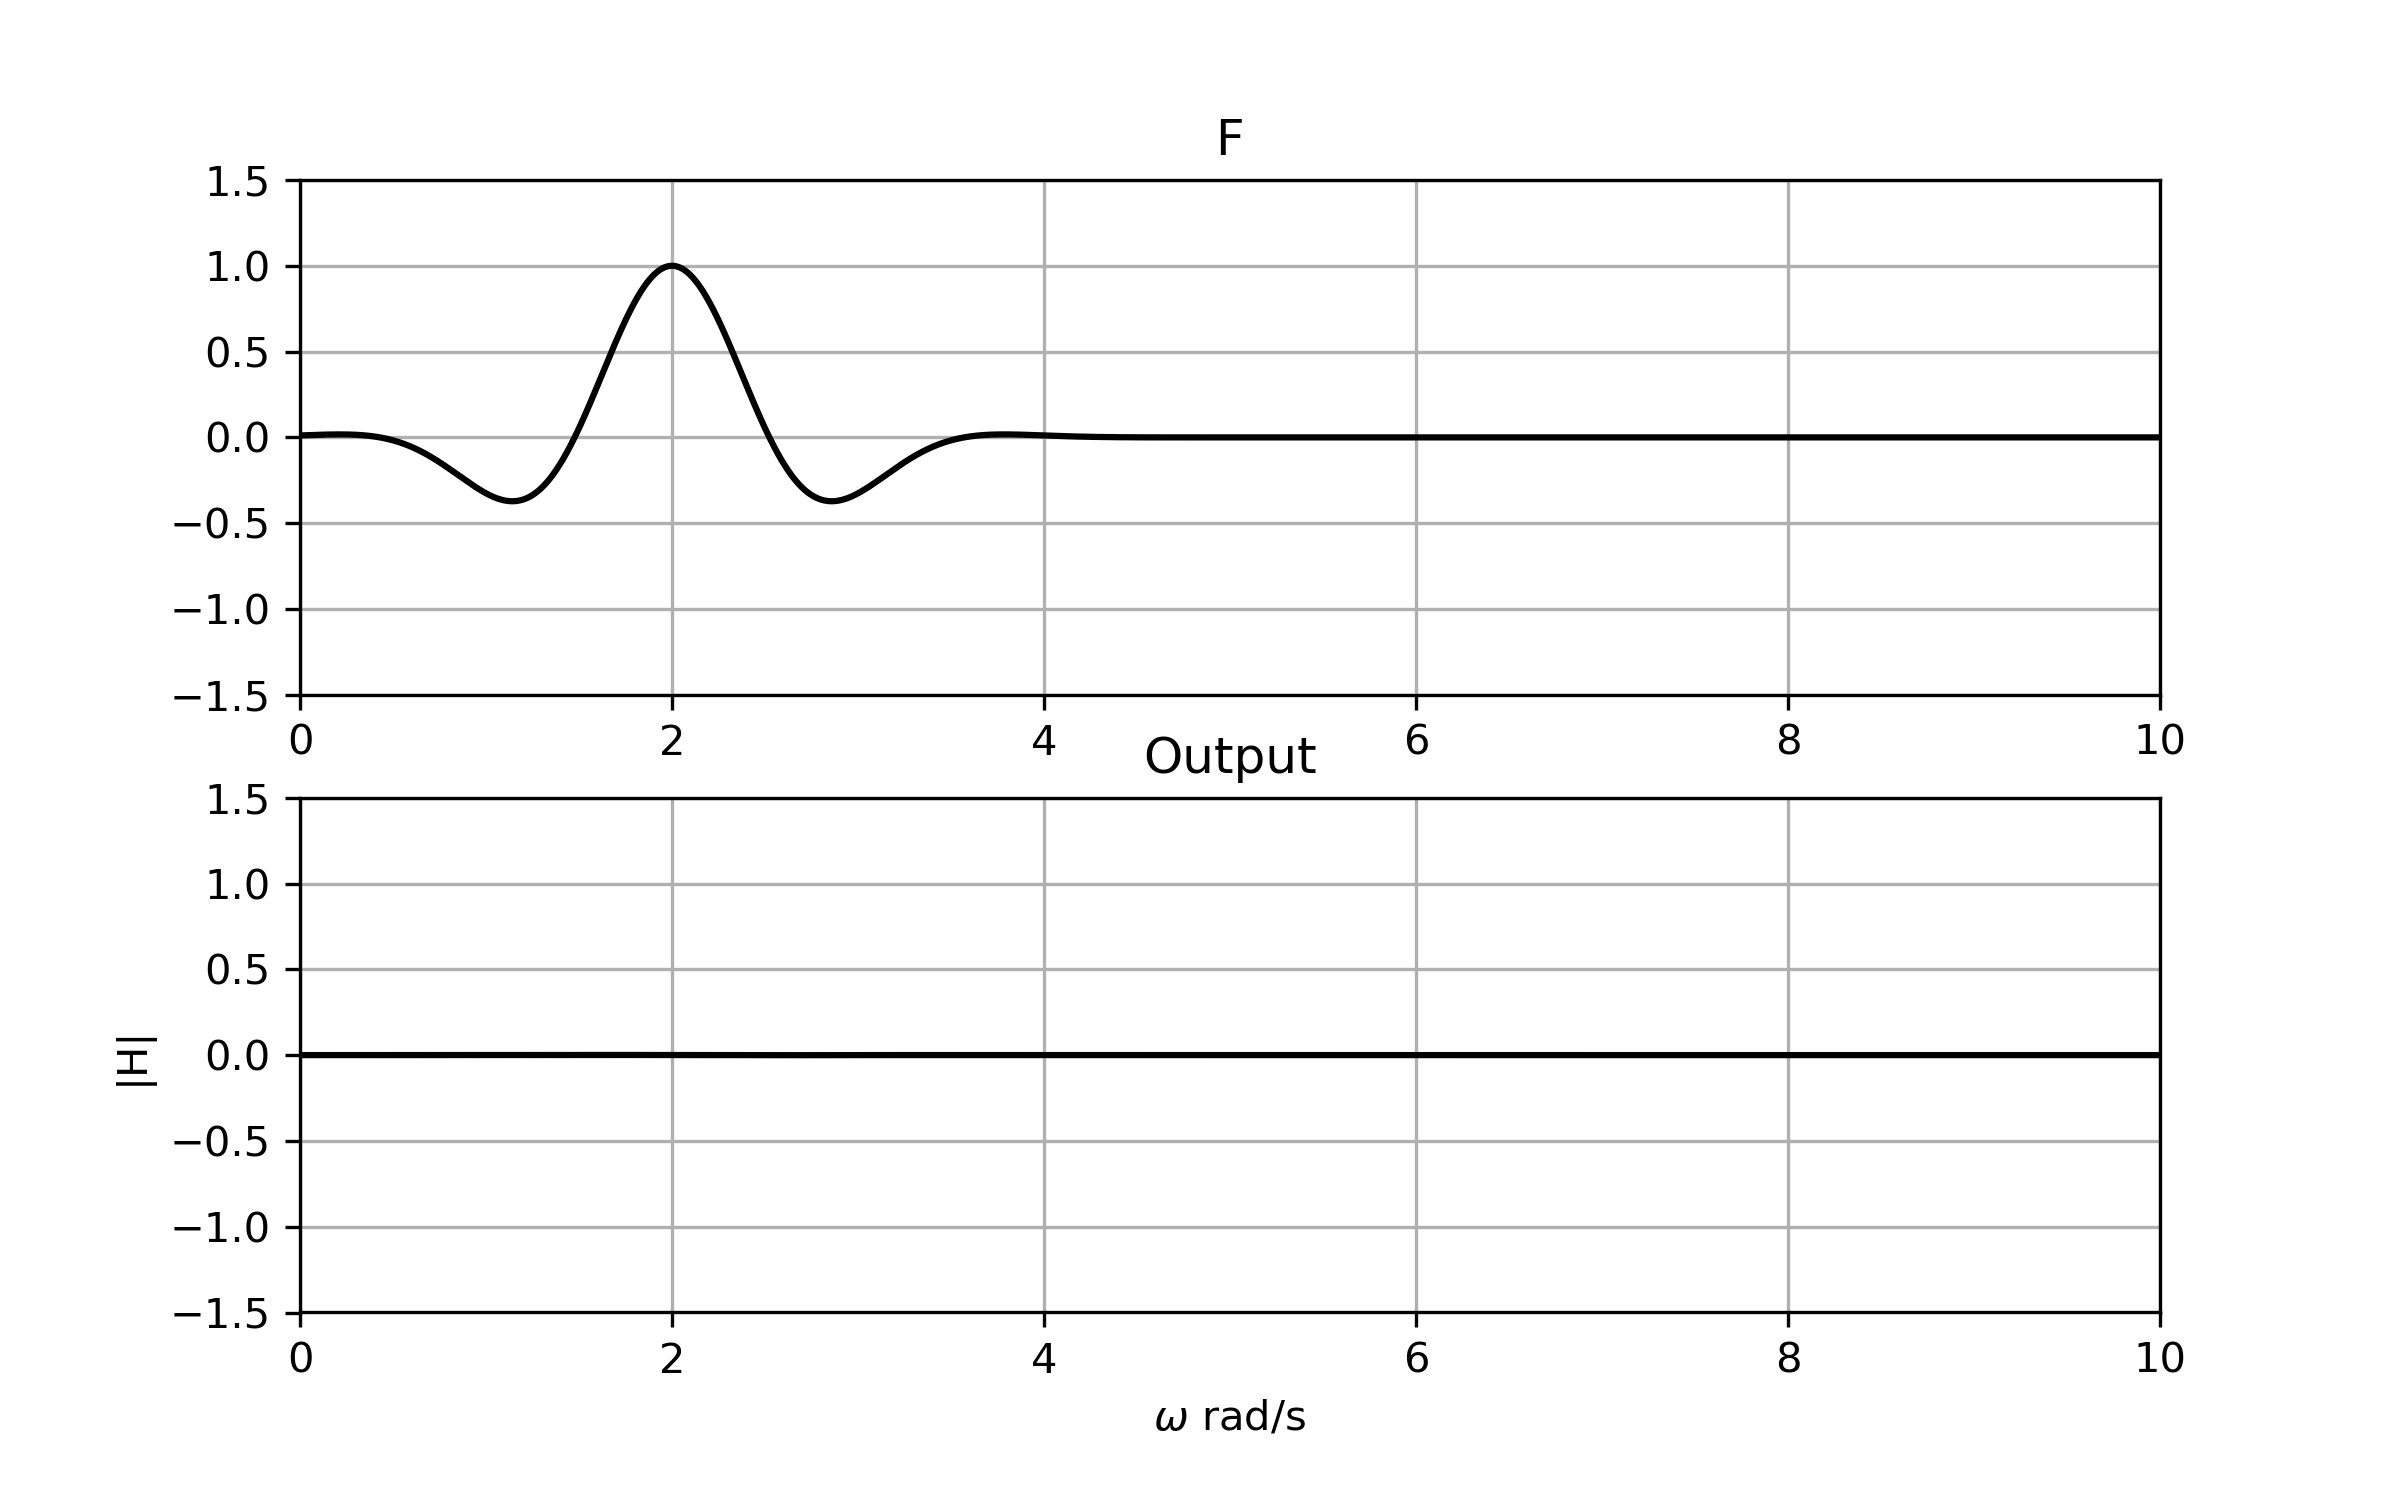
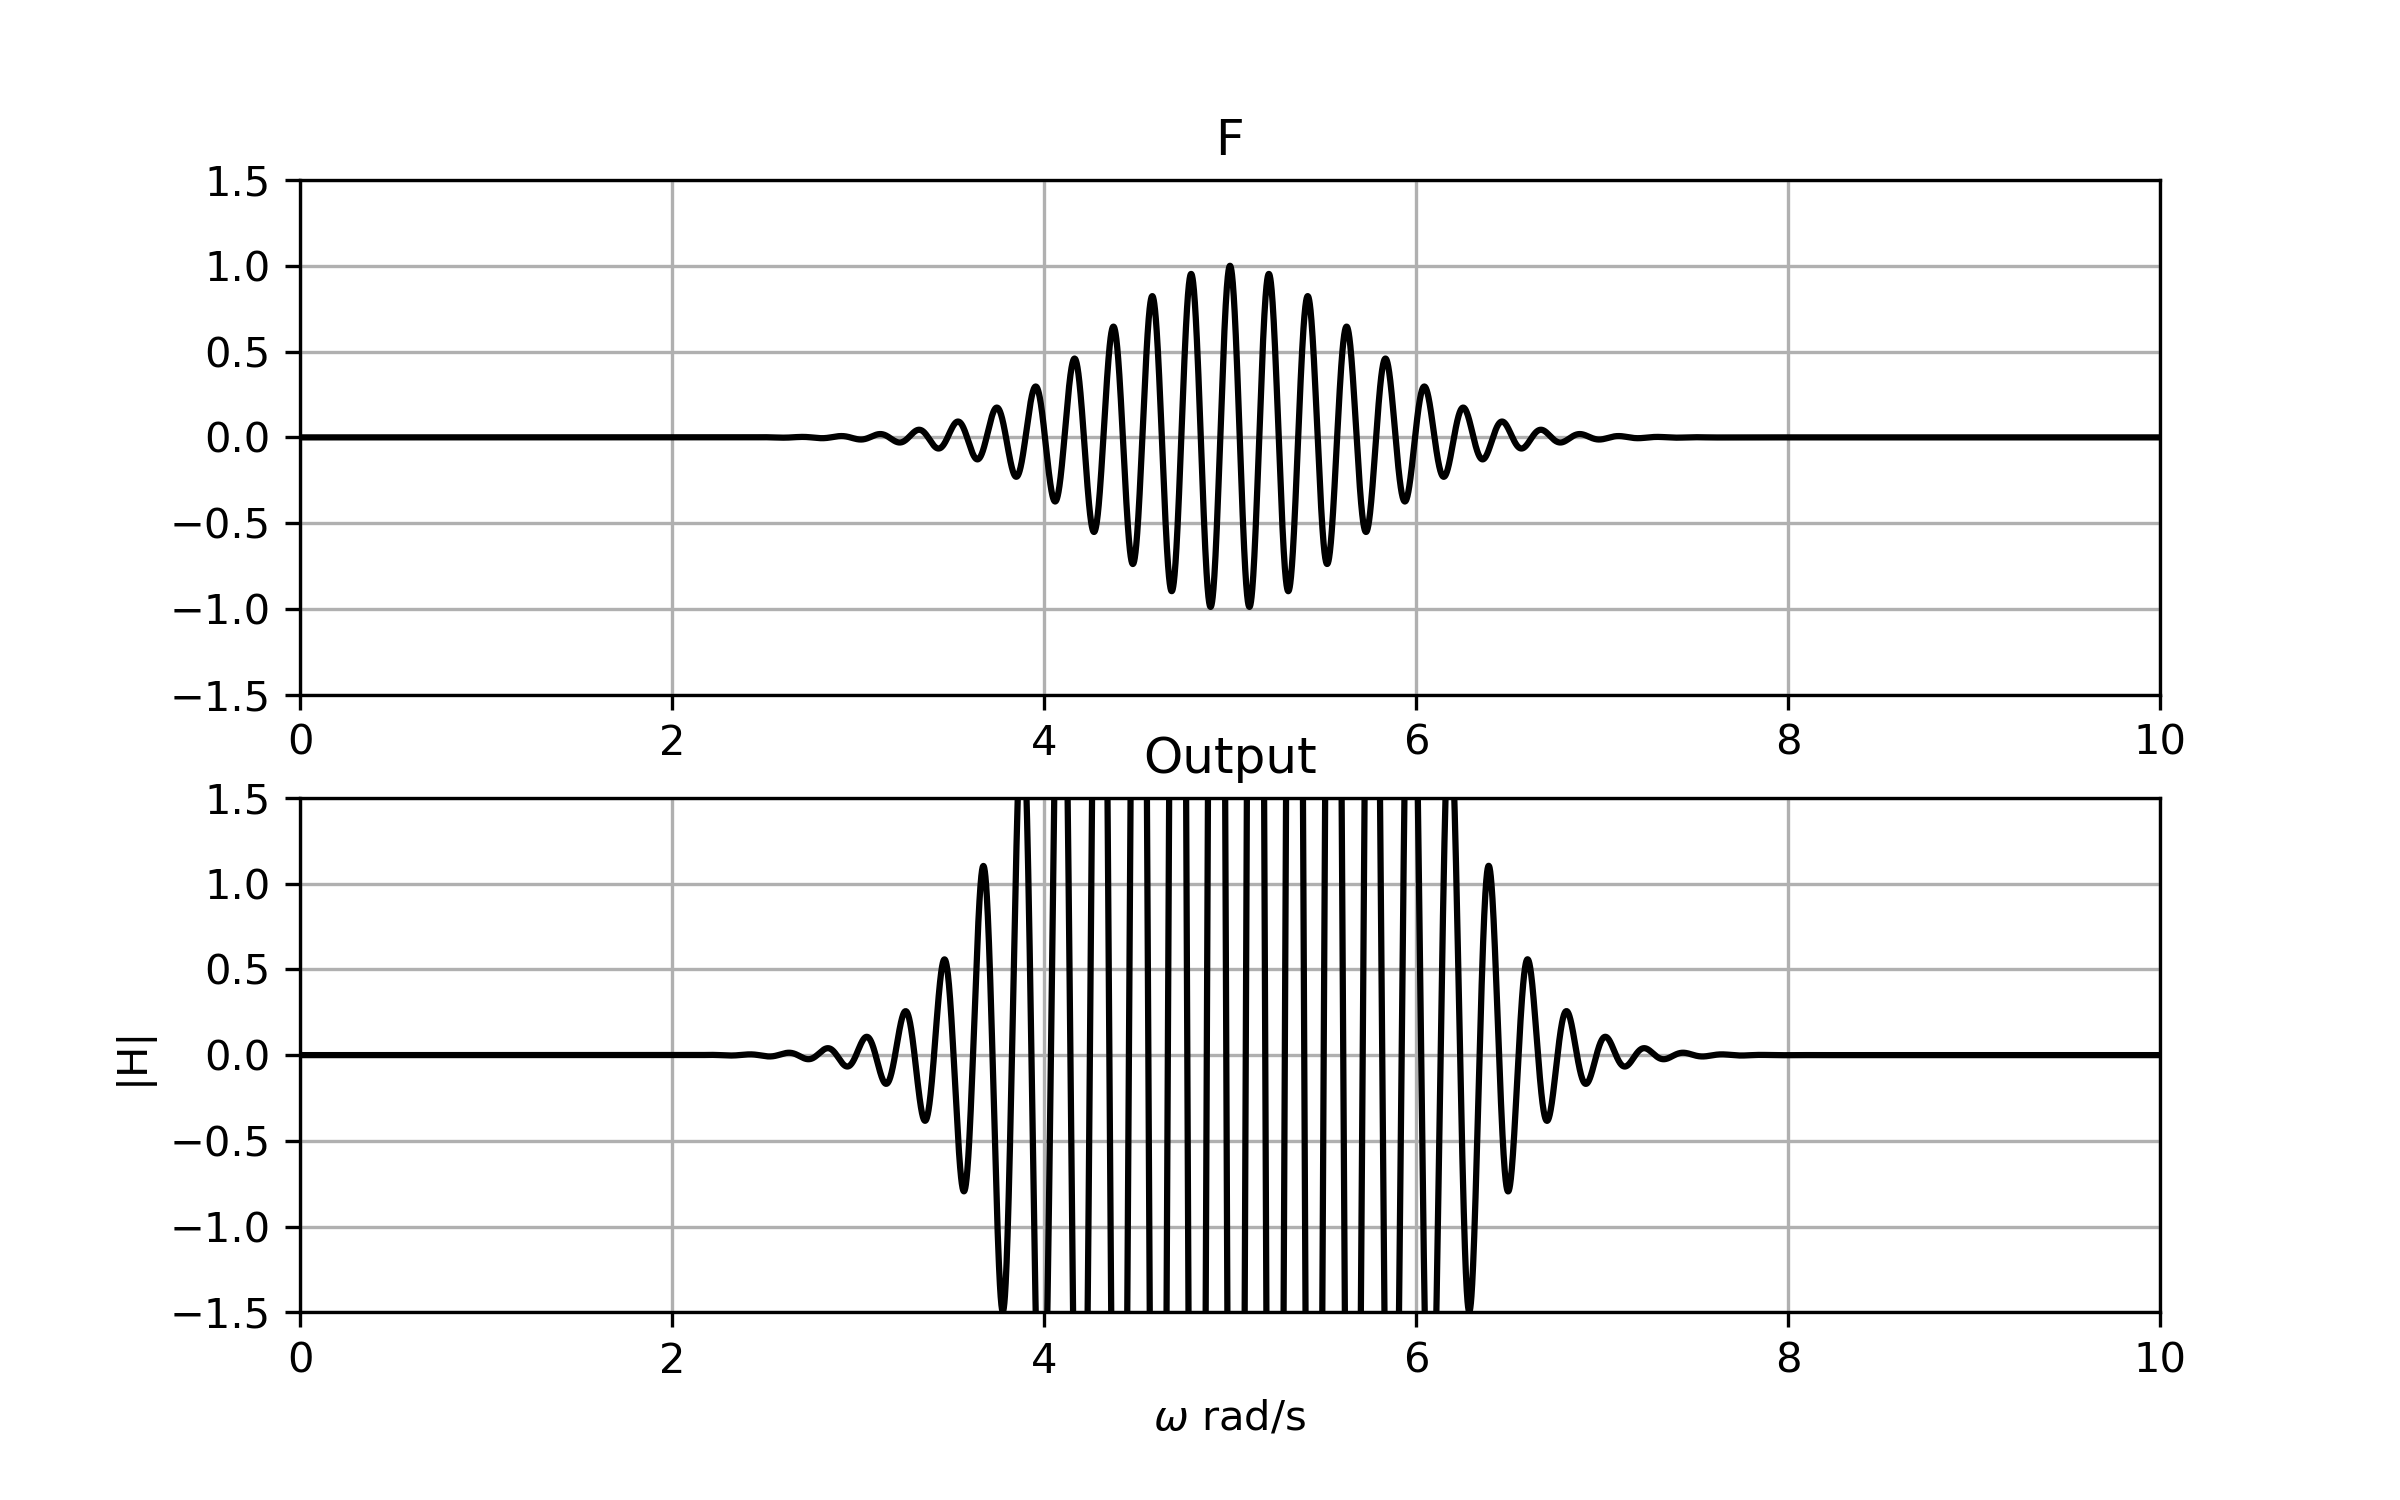
ye

Changed region(s): [[0.3438, 0.5213, 0.6875, 0.8893], [0.125, 0.184, 0.6562, 0.3987], [0.25, 0.184, 0.3125, 0.2453]]

diff --git a/butter.py b/butter.py
@@ -8,13 +8,23 @@ from control import margin
 from control import tf
 
 Hp = 1 
-Hs = 2
+Hs = 1
 wp = 1
 ws = 1
 k=1
 
+s = 30
+
 d1 = np.convolve([0,0,0,0,1,6,15,15],[0,7])
 d4 =d1+np.convolve([0,0,0,0,1,3,3],[1,0,0])
+
+print(len(d4))
+print(d4)
+
+d4[8] = d4[8]*s**4
+d4[7] = d4[7]*s**3
+d4[6] = d4[6]*s**2
+d4[5] = d4[5]*s
 # for i in range(len(d4)-1):
 #     try:
 #         if(d4[len(d4)-i]):
@@ -22,8 +32,8 @@ d4 =d1+np.convolve([0,0,0,0,1,3,3],[1,0,0])
 #     except:
 #         print('Failed')
 #         k=k
-k =d4[len(d4)-1]
-n1 = [0,0,0,0,k*Hs]
+k =d4[len(d4)-1]*s**4
+n1 =[0,k*Hs]
 
 num= n1
 den= d4
@@ -50,11 +60,11 @@ f = y
 A,B,C,D = sig.tf2ss(num,den)
 x = np.zeros(np.shape(B))
 
-omega = 3
+omega = 30
 
 for n in range(NN):
-   aaa = (((n-2000)/30)**2)
-   f[n] = cos((omega*(n-2000))*dt)
+   aaa = (((n-5000)/30)**2)
+   f[n] = cos((omega*(n-5000))*dt)*exp(-aaa*dt)
     
 #for i in range(NN):
 #    f[i] = sin(omega*i*dt)
